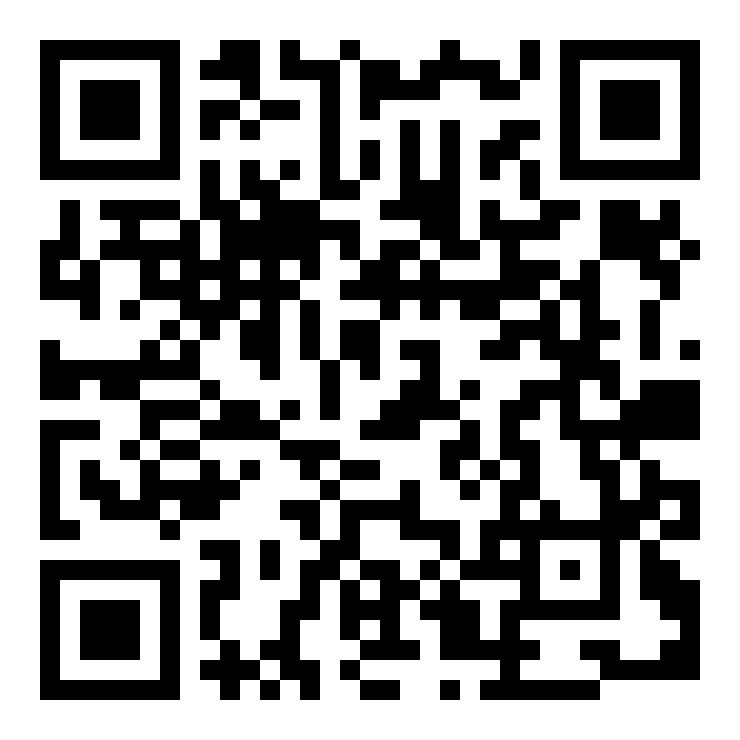
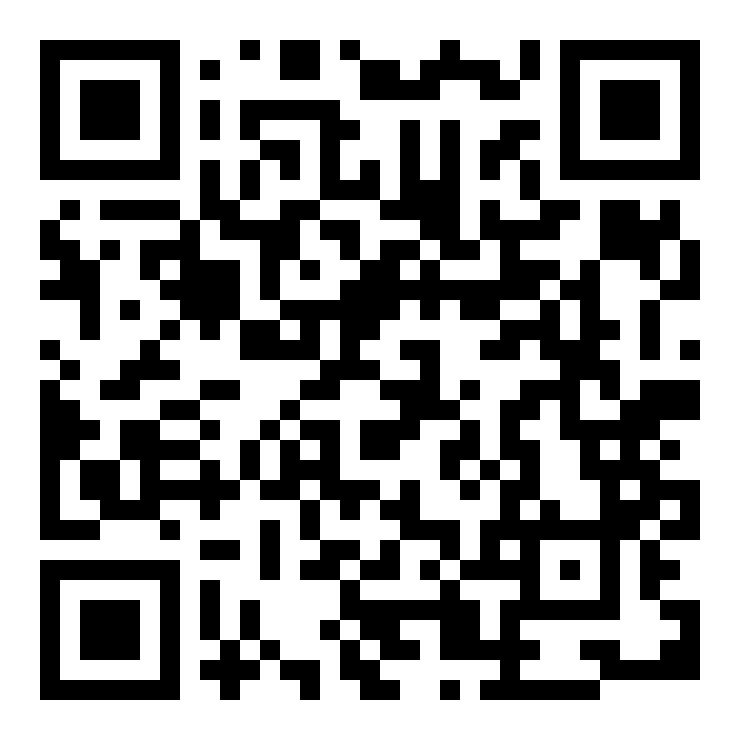
TrayHandler completed

diff --git a/static/client/script.js b/static/client/script.js
@@ -1,4 +1,5 @@
-const socket = new WebSocket("ws://192.168.188.20:54901/ws");
+const socket = new WebSocket("ws://192.168.188.20:63205/ws");
+
 
 console.log('attempting websocket connection');
 

diff --git a/controller.go b/controller.go
@@ -3,64 +3,21 @@ package main
 import (
 	"encoding/json"
 	"fmt"
-	"io/ioutil"
 	"log"
 	"net"
 	"net/http"
-	"os"
-	"os/exec"
-	"runtime"
-	"strconv"
-	"sync"
 
-	"github.com/getlantern/systray"
+	"strconv"
+
 	"github.com/go-vgo/robotgo"
 	"github.com/gorilla/websocket"
-	qrcode "github.com/yeqown/go-qrcode"
 )
 
-func open(url string) error {
-	var cmd string
-	var args []string
+var Run bool = true // App iss runing while run == true
+var Addr string     // Connection data
 
-	switch runtime.GOOS {
-	case "windows":
-		cmd = "cmd"
-		args = []string{"/c", "start"}
-	case "darwin":
-		cmd = "open"
-	default: // "linux", "freebsd", "openbsd", "netbsd"
-		cmd = "xdg-open"
-	}
-	args = append(args, url)
-	return exec.Command(cmd, args...).Start()
-}
-
-func createQr(addr string) {
-	qrc, err := qrcode.New("http://" + addr)
-	if err != nil {
-		fmt.Printf("could not generate QRCode: %v", err)
-	}
-
-	if err := qrc.Save("./static/server/qrcode.jpeg"); err != nil {
-		fmt.Printf("could not save image: %v", err)
-	}
-}
-
-func parsesAdressToJs(addr string) {
-	socketJS := "const socket = new WebSocket(" + string('"') + "ws://" + addr + "/ws" + string('"') + ");\n"
-
-	file, err := os.OpenFile("./static/client/script.js", os.O_RDWR, 0644)
-	if err != nil {
-		log.Fatalf("failed opening file: %s", err)
-	}
-	defer file.Close()
-
-	_len, err := file.WriteAt([]byte(socketJS), 0)
-	if err != nil && _len != len(socketJS) {
-		log.Fatalf("failed writing to file: %s", err)
-	}
-}
+var fileServerServer = http.FileServer(http.Dir("./static/server"))
+var fileServerClient = http.FileServer(http.Dir("./static/client"))
 
 type ClientMessage struct {
 	Type string `json:"Type"`
@@ -72,9 +29,6 @@ var upgrader = websocket.Upgrader{
 	ReadBufferSize:  128,
 	WriteBufferSize: 128,
 }
-
-var fileServerServer = http.FileServer(http.Dir("./static/server"))
-var fileServerClient = http.FileServer(http.Dir("./static/client"))
 
 // Get preferred outbound ip of this machine
 func GetOutboundIP() net.IP {
@@ -112,6 +66,7 @@ func reader(conn *websocket.Conn) {
 			log.Println(err)
 			return
 		}
+
 		log.Println(rawMsg)
 		errjSON := json.Unmarshal([]byte(rawMsg), &msg)
 		if errjSON != nil {
@@ -141,12 +96,13 @@ func reader(conn *websocket.Conn) {
 		if err := conn.WriteMessage(messageType, rawMsg); err != nil {
 			return
 		}
+
 	}
 
 }
 
 func wsEndpoint(w http.ResponseWriter, r *http.Request) {
-	upgrader.CheckOrigin = func(r *http.Request) bool { return true } //TODO
+	upgrader.CheckOrigin = func(r *http.Request) bool { return true } //TODO cyber sec muy importante
 
 	ws, err := upgrader.Upgrade(w, r, nil)
 	if err != nil {
@@ -162,47 +118,32 @@ func setupRoutes() {
 	http.HandleFunc("/ws", wsEndpoint)
 }
 
-func getIcon() []byte { // TODO
-
-	bytes, err := ioutil.ReadFile("./static/res/invaderwhite.ico")
+func setup() {
+	listener, err := net.Listen("tcp", ":0")
 	if err != nil {
-		log.Fatal(err)
+		panic(err)
 	}
-	return bytes
+	Addr = GetOutboundIP().String() + ":" + strconv.Itoa(listener.Addr().(*net.TCPAddr).Port)
+	parseAdressToJs(Addr)
+	createQr(Addr + "/client")
+	//open("http://" + Addr + "/client")
+	go open("http://" + Addr + "/server")
+	fmt.Println("server started", Addr)
+	panic(http.Serve(listener, nil))
+
 }
 
-func onReady() {
-	bytes := getIcon()
-	systray.SetIcon(bytes)
-	systray.SetTitle("BrowserTouchpad")
-	systray.SetTooltip("active")
-	/*mQuit :=*/ systray.AddMenuItem("Quit", "Quit the whole app")
-
-	// Sets the icon of a menu item. Only available on Mac and Windows.
-	//mQuit.SetIcon(icon.Data)
-}
-
-func onExit() { // TODO
-	// clean up here
+func runCheck() {
+	for {
+		if !Run {
+			return
+		}
+	}
 }
 
 func main() {
-	go systray.Run(onReady, onExit)
-	var wg sync.WaitGroup
+	InitTrayHandler()
 	setupRoutes()
-	wg.Add(1)
-	go func() {
-		listener, err := net.Listen("tcp", ":0")
-		if err != nil {
-			panic(err)
-		}
-		addr := GetOutboundIP().String() + ":" + strconv.Itoa(listener.Addr().(*net.TCPAddr).Port)
-		parsesAdressToJs(addr)
-		createQr(addr + "/client")
-		open("http://" + addr + "/client")
-		open("http://" + addr + "/server")
-		fmt.Println("server started", addr)
-		panic(http.Serve(listener, nil))
-	}()
-	wg.Wait()
+	go setup()
+	runCheck()
 }

diff --git a/utils.go b/utils.go
@@ -1,0 +1,55 @@
+package main
+
+import (
+	"fmt"
+	"log"
+	"os"
+	"os/exec"
+	"runtime"
+
+	qrcode "github.com/yeqown/go-qrcode"
+)
+
+func open(url string) error {
+	var cmd string
+	var args []string
+
+	switch runtime.GOOS {
+	case "windows":
+		cmd = "cmd"
+		args = []string{"/c", "start"}
+	case "darwin":
+		cmd = "open"
+	default: // "linux", "freebsd", "openbsd", "netbsd"
+		cmd = "xdg-open"
+	}
+	args = append(args, url)
+	return exec.Command(cmd, args...).Start()
+}
+
+func createQr(addr string) {
+	qrc, err := qrcode.New("http://" + addr)
+	if err != nil {
+		fmt.Printf("could not generate QRCode: %v", err)
+	}
+
+	if err := qrc.Save("./static/server/qrcode.jpeg"); err != nil {
+		fmt.Printf("could not save image: %v", err)
+	}
+}
+
+// Parsing address(connection) data to ./static/client/script.js needed for the frontend websocket connection
+func parseAdressToJs(addr string) {
+	socketJS := "const socket = new WebSocket(" + string('"') + "ws://" + addr + "/ws" + string('"') + ");\n"
+
+	file, err := os.OpenFile("./static/client/script.js", os.O_RDWR, 0644)
+	if err != nil {
+		log.Fatalf("failed opening file: %s", err)
+	}
+	defer file.Close()
+
+	_len, err := file.WriteAt([]byte(socketJS), 0)
+	if err != nil && _len != len(socketJS) {
+		log.Fatalf("failed writing to file: %s", err)
+	}
+}

diff --git a/trayHandler.go b/trayHandler.go
@@ -1,0 +1,44 @@
+package main
+
+import (
+	"io/ioutil"
+	"log"
+
+	"github.com/getlantern/systray"
+)
+
+func getIcon() []byte { //TODO Changeable icon color
+
+	bytes, err := ioutil.ReadFile("./static/res/iconwhite.ico")
+	if err != nil {
+		log.Fatal(err)
+	}
+	return bytes
+}
+
+func onReady() {
+	systray.SetIcon(getIcon())
+	systray.SetTitle("BrowserTouchpad")
+	systray.SetTooltip("active")
+	controll := systray.AddMenuItem("Show QR Code", "Open the webinterface")
+	mQuit := systray.AddMenuItem("Quit", "Quit the whole app")
+
+	go func() {
+		<-controll.ClickedCh
+		open("http://" + Addr + "/server")
+	}()
+
+	go func() {
+		<-mQuit.ClickedCh
+		Run = false
+		systray.Quit()
+	}()
+}
+
+func onExit() { // TODO Chek 4 real cleanup
+	log.Println("exit trayHandler")
+}
+
+func InitTrayHandler() {
+	go systray.Run(onReady, onExit)
+}
